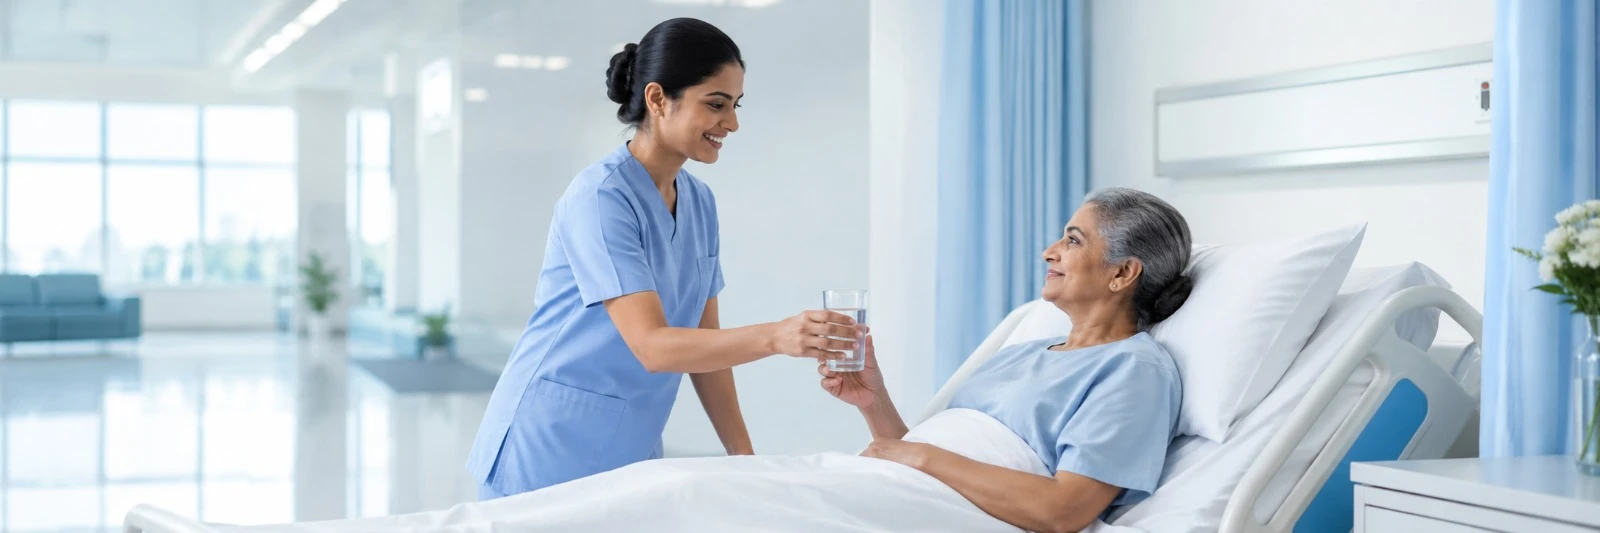
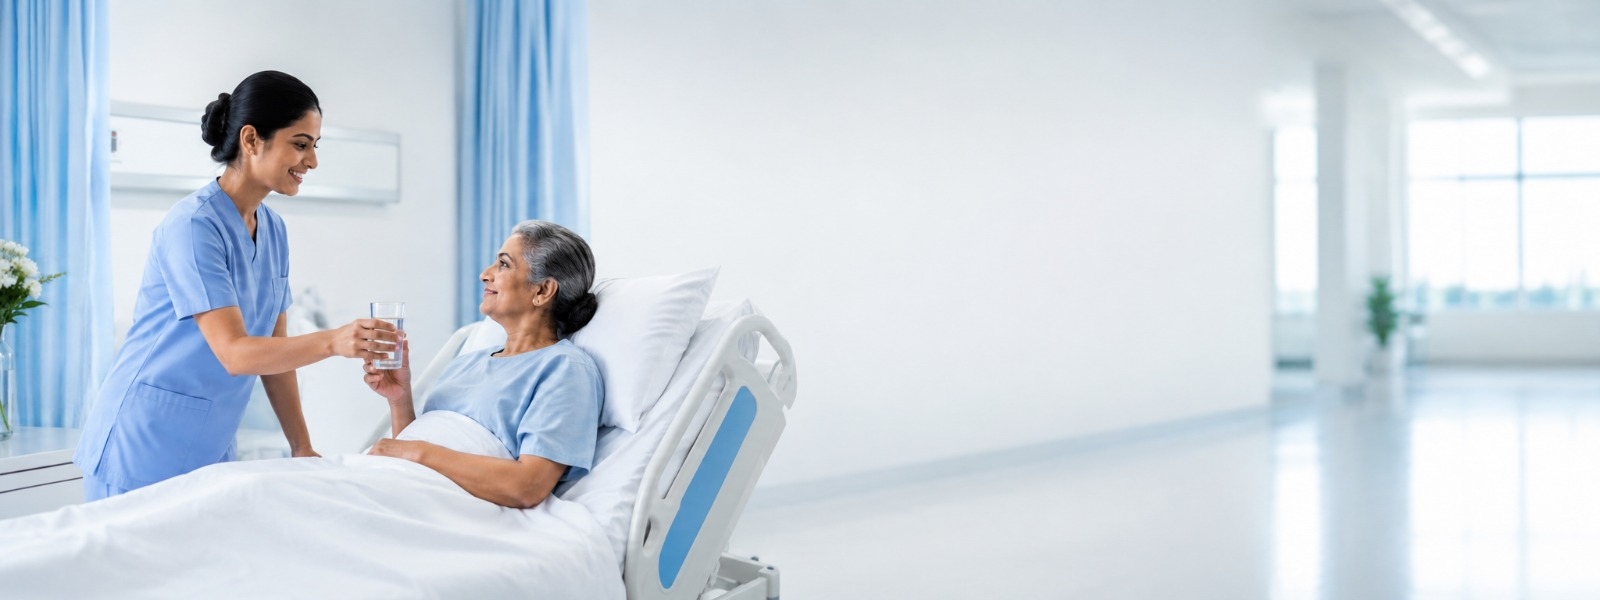
images add

diff --git a/src/components/home/WhatWeOffer.tsx b/src/components/home/WhatWeOffer.tsx
@@ -24,7 +24,7 @@ const WhatWeOffer: React.FC = () => {
             id: 3,
             title: "AMC (Annual Maintenance Contract)",
             description: "Hassle-free AMC plans for regular servicing and year-round maintenance support.",
-            image: "https://images.unsplash.com/photo-1581094481221-111adb2e429b?q=80&w=2070&auto=format&fit=crop",
+            image: "/assets/home/amc.webp",
             icon: <ShieldCheck size={28} className="md:w-8 md:h-8" />,
             ctaText: "Enquiry Now"
         },
@@ -32,7 +32,7 @@ const WhatWeOffer: React.FC = () => {
             id: 4,
             title: "O&M (Operation & Maintenance)",
             description: "Complete plant operation and maintenance for consistent system reliability.",
-            image: "https://images.unsplash.com/photo-1581092580497-e0d23cbdf1dc?q=80&w=2070&auto=format&fit=crop",
+            image: "/assets/home/om.webp",
             icon: <Activity size={28} className="md:w-8 md:h-8" />,
             ctaText: "Enquiry Now"
         }

diff --git a/src/components/industry/IndustryOfferings.tsx b/src/components/industry/IndustryOfferings.tsx
@@ -7,7 +7,7 @@ const servicesData = [
         id: 1,
         title: "Process Water Treatment",
         description: "High-purity water solutions for manufacturing, pharmaceuticals, and food production processes.",
-        image: "/assets/about/subtract.png",
+        image: "/assets/industrial/pwt.webp",
         icon: <Search className="text-white" size={24} />,
         ctaText: "Enquiry Now",
         onCtaClick: () => console.log("Service 1 Clicked")
@@ -16,7 +16,7 @@ const servicesData = [
         id: 2,
         title: "Wastewater Recycling",
         description: "Advanced recycling systems to minimize discharge and promote sustainable water management.",
-        image: "/assets/about/subtract.png",
+        image: "/assets/industrial/wt.webp",
         icon: <Zap className="text-white" size={24} />,
         ctaText: "Enquiry Now",
         onCtaClick: () => console.log("Service 2 Clicked")

diff --git a/src/components/home/Hero.tsx b/src/components/home/Hero.tsx
@@ -37,7 +37,7 @@ const Hero: React.FC = () => {
         {
             titleStart: "Banner Promo",
             titleEnd: "Limited Offer",
-            familyImage: "/assets/home/Hospital.webp", // banner image
+            familyImage: "/assets/home/hospital.webp", // banner image
             productImage: "/assets/home/purifier.png", // dummy product image
             trustCount: "N/A",
             overlayColor: "#6C1E1E"
